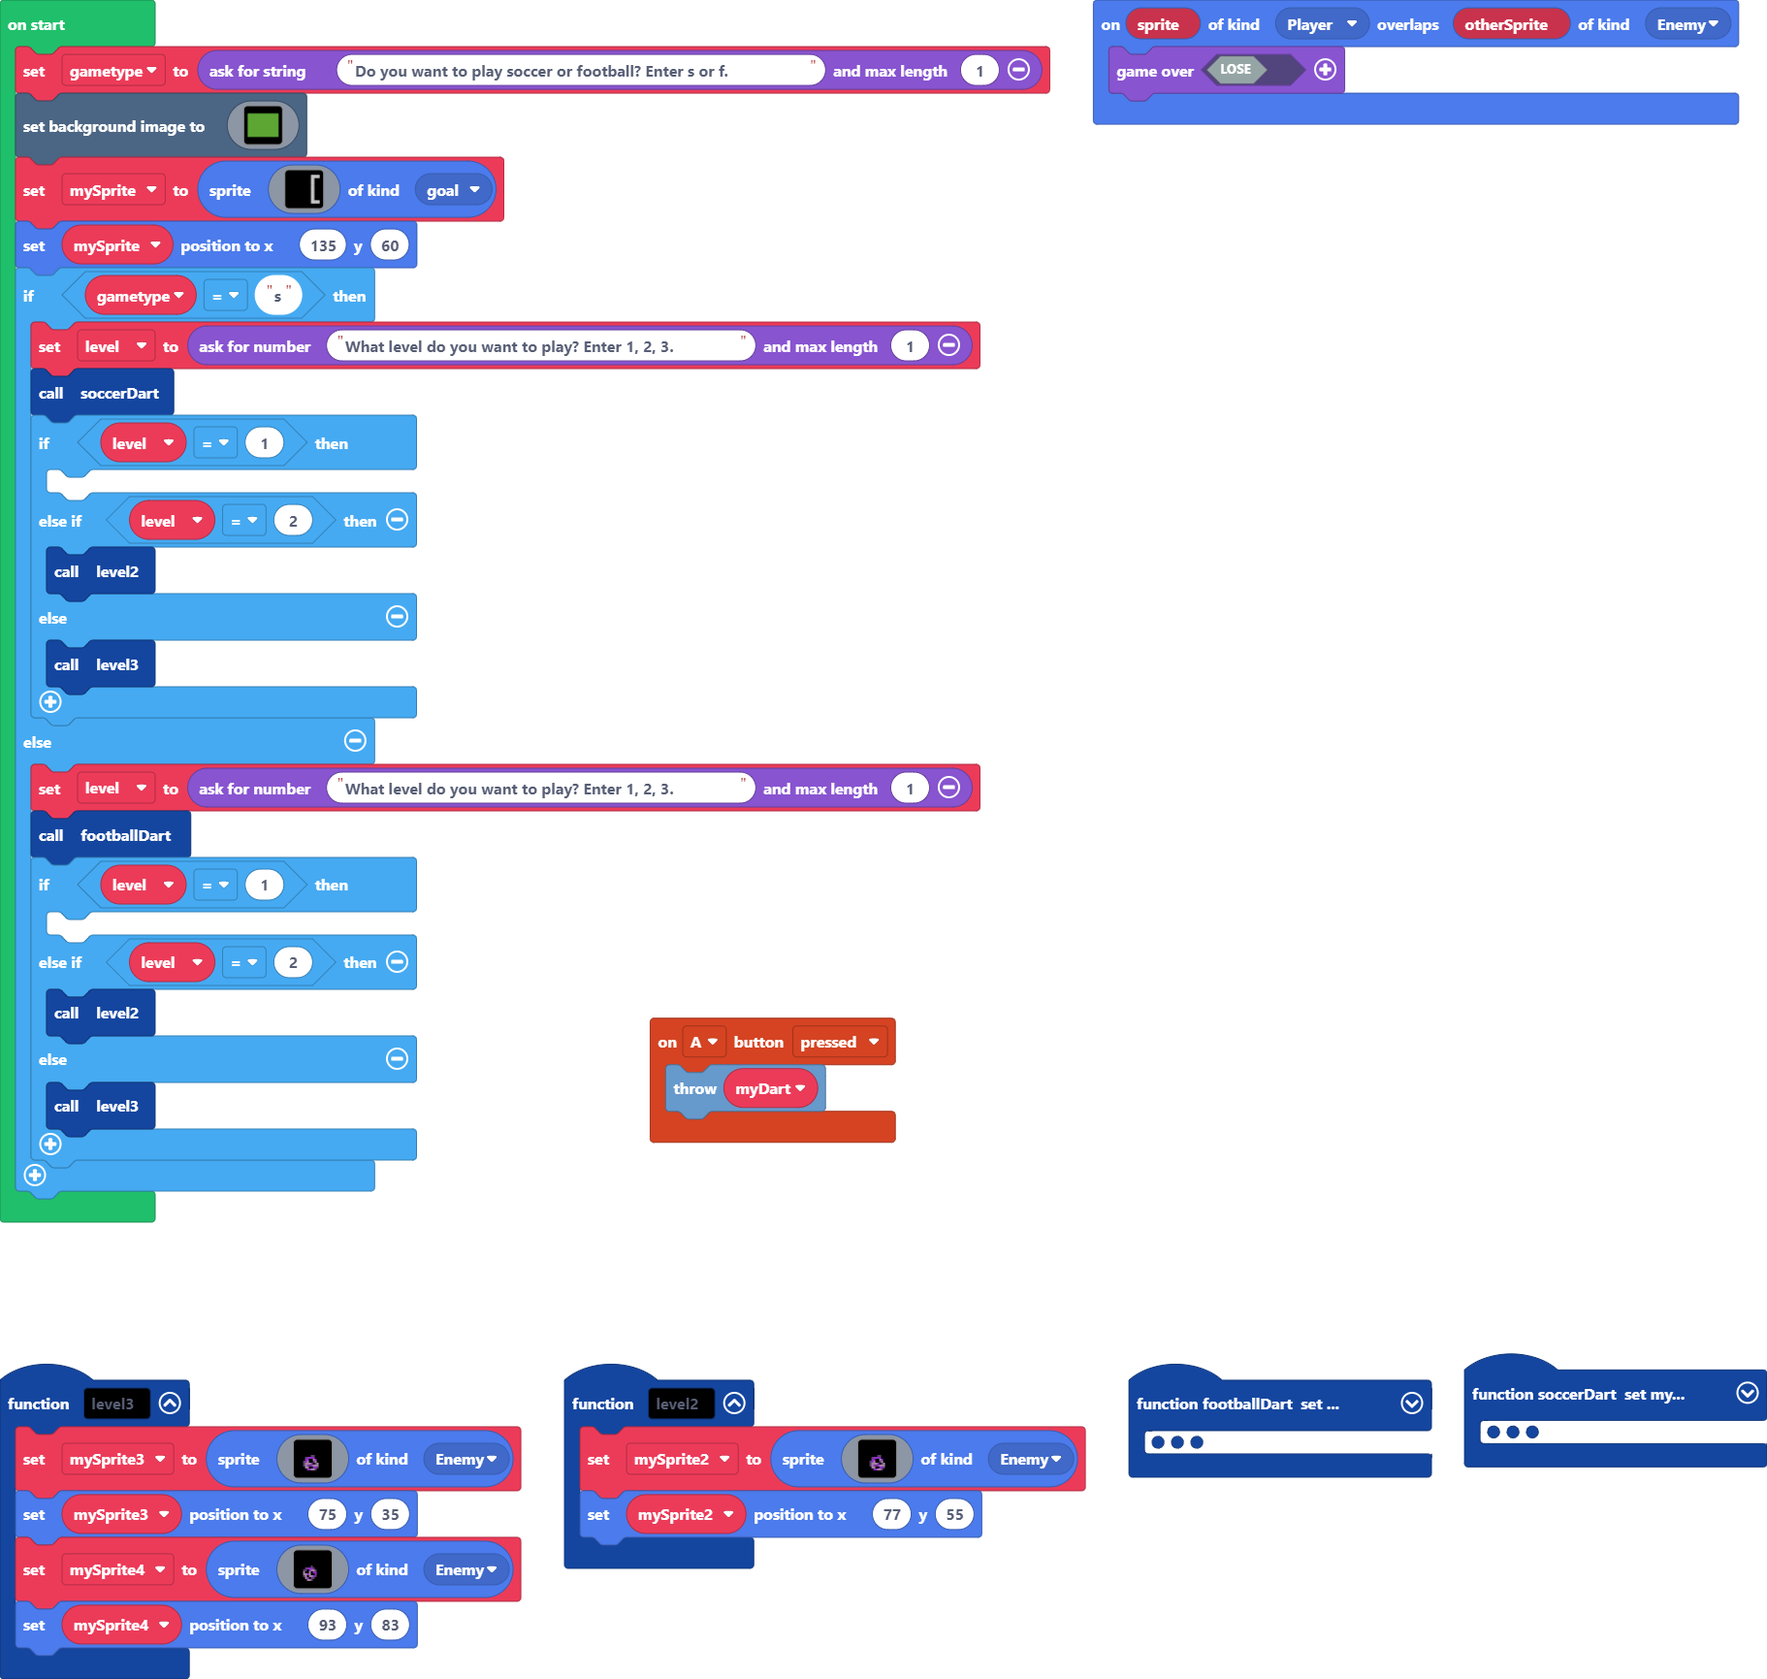
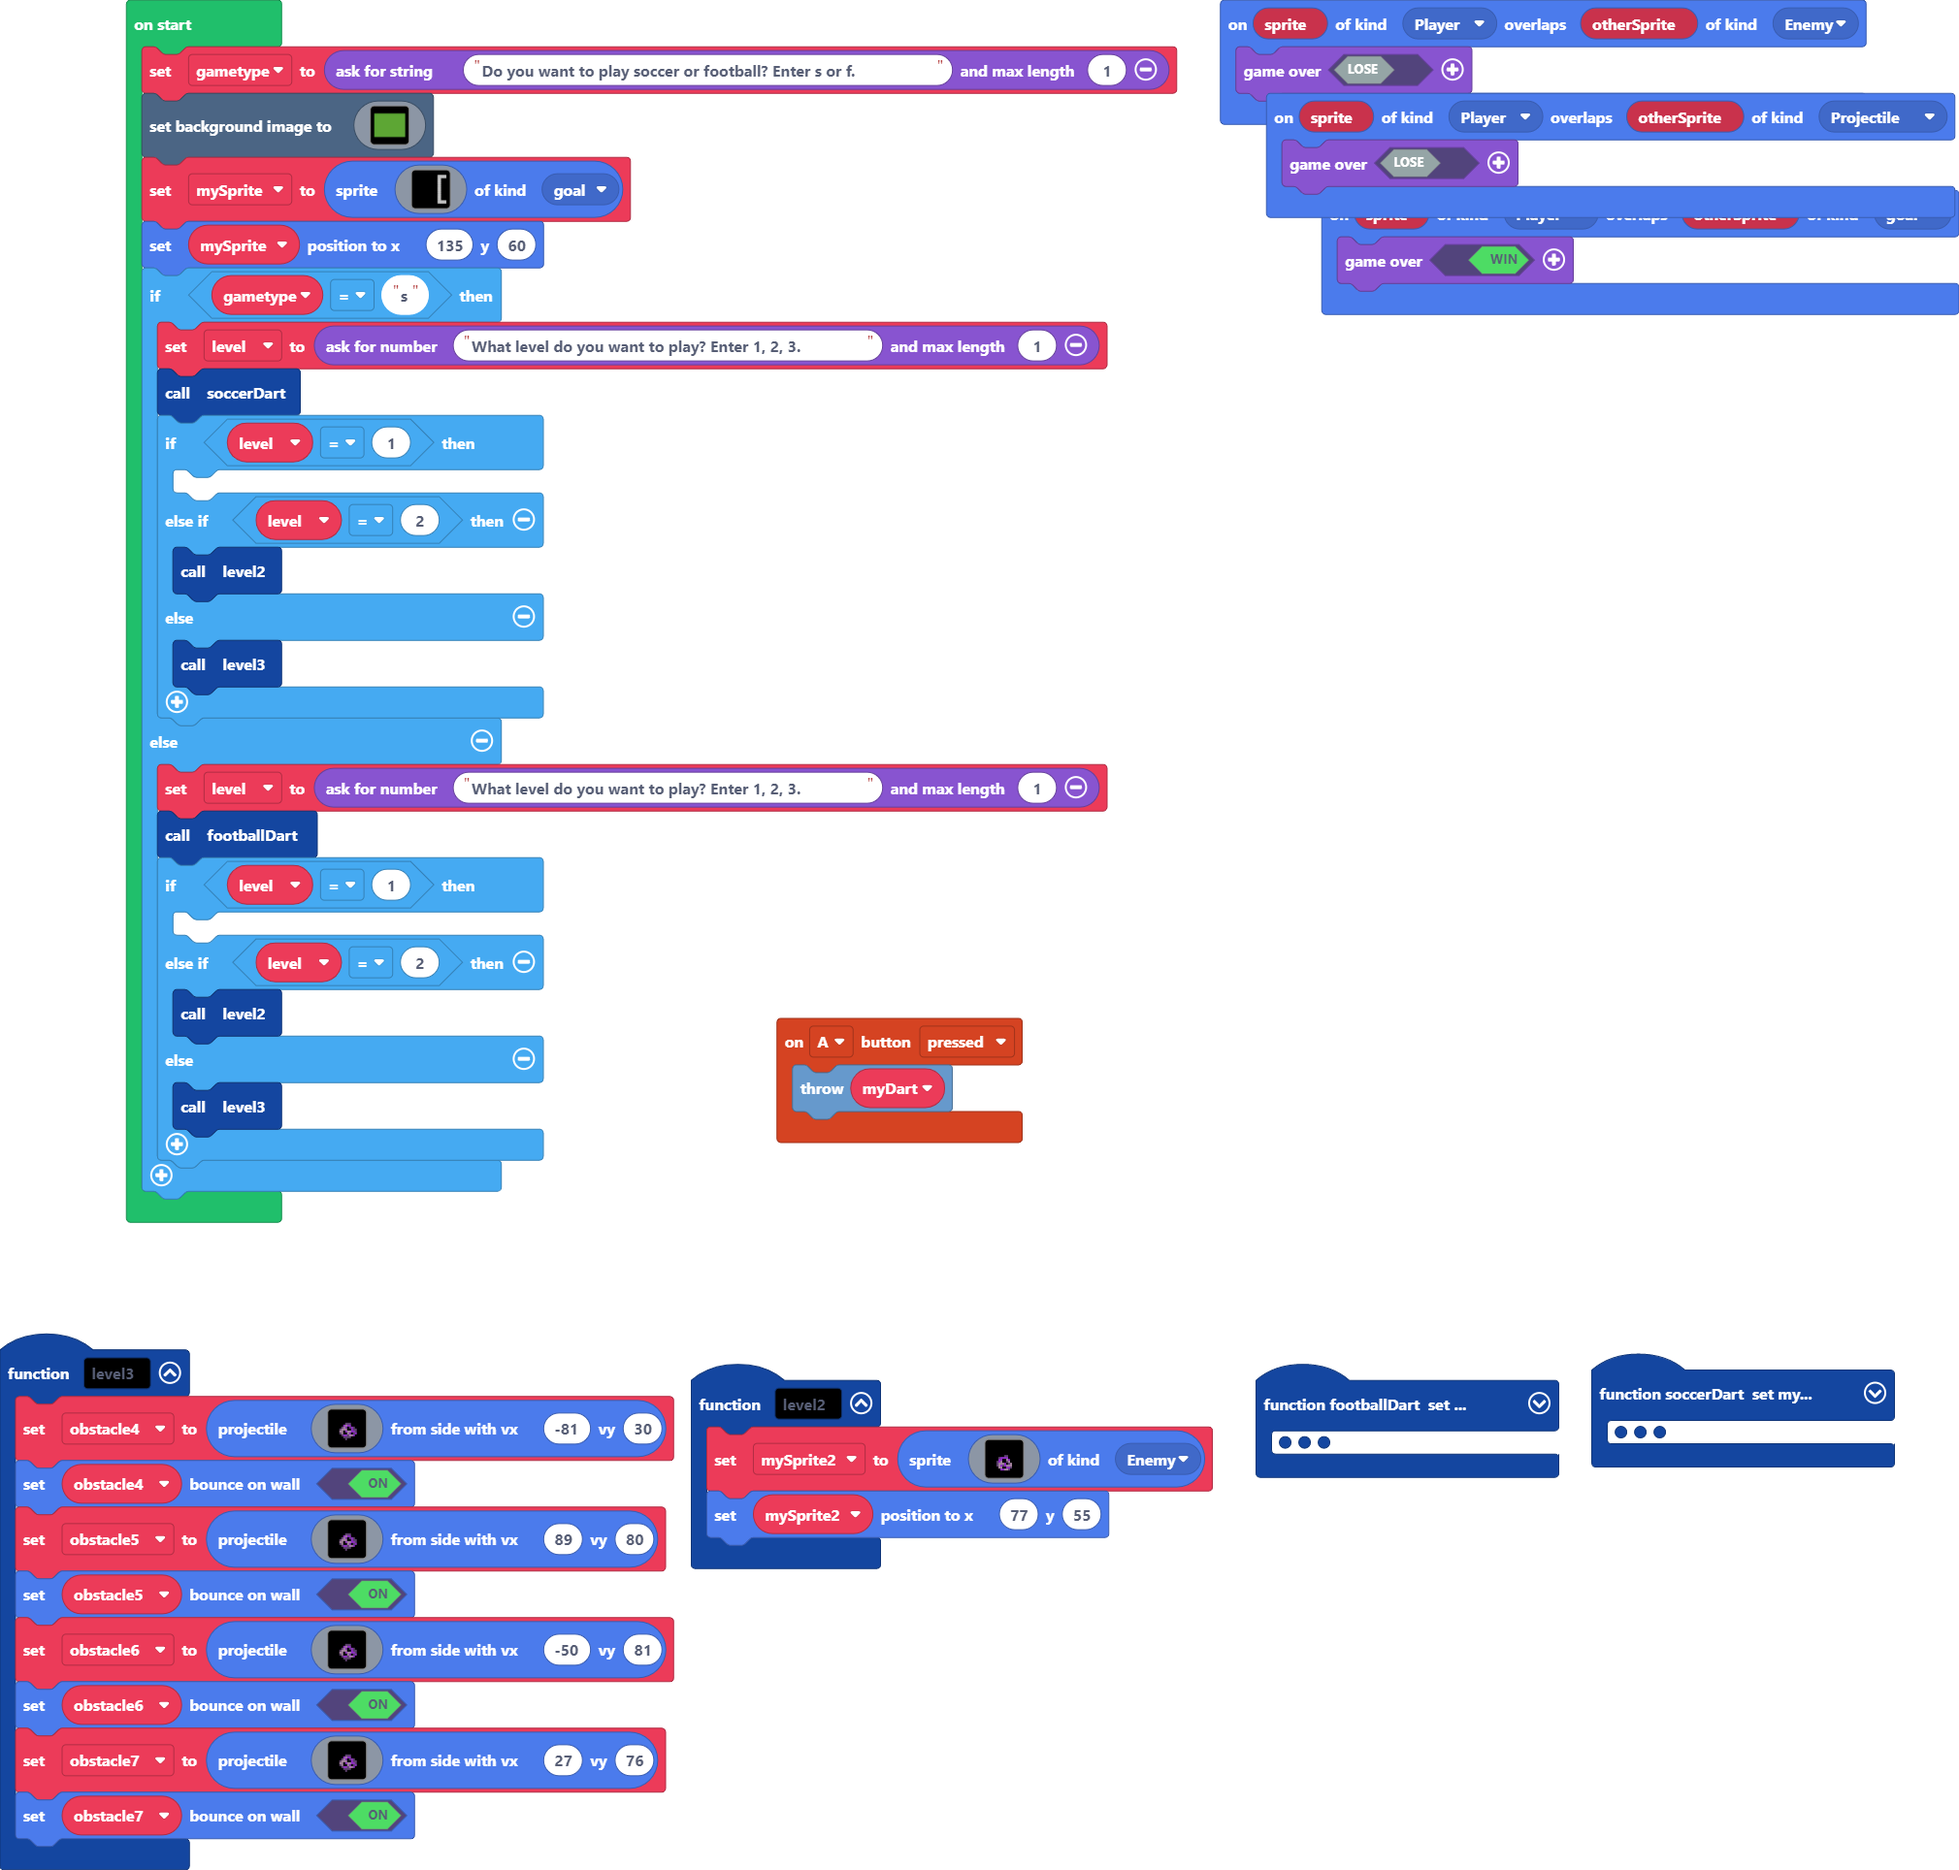
Update main.blocks, main.ts

diff --git a/main.ts b/main.ts
@@ -29,44 +29,82 @@ controller.A.onEvent(ControllerButtonEvent.Pressed, function () {
     myDart.throwDart()
 })
 function level3 () {
-    mySprite3 = sprites.create(img`
+    obstacle4 = sprites.createProjectileFromSide(img`
         . . . . . . . . . . . . . . . . 
         . . . . . . . . . . . . . . . . 
         . . . . . . . . . . . . . . . . 
         . . . . . . . . . . . . . . . . 
         . . . . . . . . . . . . . . . . 
-        . . . . . . . . . . . . . . . . 
-        . . . . . . . c c . . . . . . . 
-        . . . . c a a a a . . . . . . . 
-        . . . . a a f f b a . . . . . . 
-        . . . c a b f f c b . . . . . . 
-        . . . c b b b a f c b . . . . . 
-        . . . c b a c a b b b . . . . . 
-        . . . . b b f f a a c . . . . . 
-        . . . . . a a b b c . . . . . . 
-        . . . . . . . . . . . . . . . . 
-        . . . . . . . . . . . . . . . . 
-        `, SpriteKind.Enemy)
-    mySprite3.setPosition(75, 35)
-    mySprite4 = sprites.create(img`
-        . . . . . . . . . . . . . . . . 
-        . . . . . . . . . . . . . . . . 
-        . . . . . . . . . . . . . . . . 
-        . . . . . . . . . . . . . . . . 
-        . . . . . . . . . . . . . . . . 
-        . . . . . . . . . . . . . . . . 
+        . . . . . . . c c c . . . . . . 
+        . . . . . . a b a a . . . . . . 
+        . . . . . c b a f c a c . . . . 
+        . . . . c b b b f f a c c . . . 
+        . . . . b b f a b b a a c . . . 
+        . . . . c b f f b a f c a . . . 
+        . . . . . c a a c b b a . . . . 
+        . . . . . . c c c c . . . . . . 
         . . . . . . . c . . . . . . . . 
-        . . . . c a a a c . . . . . . . 
-        . . . c c f a b b c . . . . . . 
-        . . . b f f b f a a . . . . . . 
-        . . . b b a b f f a . . . . . . 
-        . . . c b f b b a c . . . . . . 
-        . . . . b a f c c . . . . . . . 
-        . . . . . b b c . . . . . . . . 
         . . . . . . . . . . . . . . . . 
         . . . . . . . . . . . . . . . . 
-        `, SpriteKind.Enemy)
-    mySprite4.setPosition(93, 83)
+        `, -81, 30)
+    obstacle4.setBounceOnWall(true)
+    obstacle5 = sprites.createProjectileFromSide(img`
+        . . . . . . . . . . . . . . . . 
+        . . . . . . . . . . . . . . . . 
+        . . . . . . . . . . . . . . . . 
+        . . . . . . . . . . . . . . . . 
+        . . . . . . . . . . . . . . . . 
+        . . . . . . . c c c . . . . . . 
+        . . . . . . a b a a . . . . . . 
+        . . . . . c b a f c a c . . . . 
+        . . . . c b b b f f a c c . . . 
+        . . . . b b f a b b a a c . . . 
+        . . . . c b f f b a f c a . . . 
+        . . . . . c a a c b b a . . . . 
+        . . . . . . c c c c . . . . . . 
+        . . . . . . . c . . . . . . . . 
+        . . . . . . . . . . . . . . . . 
+        . . . . . . . . . . . . . . . . 
+        `, 89, 80)
+    obstacle5.setBounceOnWall(true)
+    obstacle6 = sprites.createProjectileFromSide(img`
+        . . . . . . . . . . . . . . . . 
+        . . . . . . . . . . . . . . . . 
+        . . . . . . . . . . . . . . . . 
+        . . . . . . . . . . . . . . . . 
+        . . . . . . . . . . . . . . . . 
+        . . . . . . . c c c . . . . . . 
+        . . . . . . a b a a . . . . . . 
+        . . . . . c b a f c a c . . . . 
+        . . . . c b b b f f a c c . . . 
+        . . . . b b f a b b a a c . . . 
+        . . . . c b f f b a f c a . . . 
+        . . . . . c a a c b b a . . . . 
+        . . . . . . c c c c . . . . . . 
+        . . . . . . . c . . . . . . . . 
+        . . . . . . . . . . . . . . . . 
+        . . . . . . . . . . . . . . . . 
+        `, -50, 81)
+    obstacle6.setBounceOnWall(true)
+    obstacle7 = sprites.createProjectileFromSide(img`
+        . . . . . . . . . . . . . . . . 
+        . . . . . . . . . . . . . . . . 
+        . . . . . . . . . . . . . . . . 
+        . . . . . . . . . . . . . . . . 
+        . . . . . . . . . . . . . . . . 
+        . . . . . . . c c c . . . . . . 
+        . . . . . . a b a a . . . . . . 
+        . . . . . c b a f c a c . . . . 
+        . . . . c b b b f f a c c . . . 
+        . . . . b b f a b b a a c . . . 
+        . . . . c b f f b a f c a . . . 
+        . . . . . c a a c b b a . . . . 
+        . . . . . . c c c c . . . . . . 
+        . . . . . . . c . . . . . . . . 
+        . . . . . . . . . . . . . . . . 
+        . . . . . . . . . . . . . . . . 
+        `, 27, 76)
+    obstacle7.setBounceOnWall(true)
 }
 function level2 () {
     mySprite2 = sprites.create(img`
@@ -111,12 +149,20 @@ function footballDart () {
     myDart.setTrace()
     myDart.controlWithArrowKeys()
 }
+sprites.onOverlap(SpriteKind.Player, SpriteKind.Projectile, function (sprite, otherSprite) {
+    game.over(false)
+})
+sprites.onOverlap(SpriteKind.Player, SpriteKind.goal, function (sprite, otherSprite) {
+    game.over(true)
+})
 sprites.onOverlap(SpriteKind.Player, SpriteKind.Enemy, function (sprite, otherSprite) {
     game.over(false)
 })
 let mySprite2: Sprite = null
-let mySprite4: Sprite = null
-let mySprite3: Sprite = null
+let obstacle7: Sprite = null
+let obstacle6: Sprite = null
+let obstacle5: Sprite = null
+let obstacle4: Sprite = null
 let myDart: Dart = null
 let level = 0
 let gametype = game.askForString("Do you want to play soccer or football? Enter s or f.", 1)
